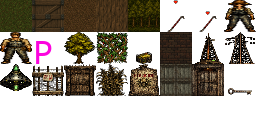
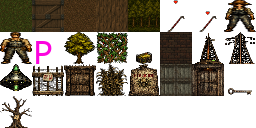
Added tree with note containing workshop door code

Changed region(s): [[0.0, 0.75, 0.125, 1.0]]

diff --git a/src/game/tree_note.h b/src/game/tree_note.h
@@ -1,0 +1,31 @@
+#pragma once
+
+#include "actionable.h"
+#include "entity_ids.h"
+#include "game_state.h"
+
+struct tree_note_t : public actionable_t
+{
+	tree_note_t(game_state_t *game, vec2_t pos)
+			: actionable_t{TREE_NOTE_NAME, pos, TREE_NOTE_ID}, game{game}
+	{
+		halved = true;
+		collidable = false;
+		action_text = "Read note";
+	}
+
+	void on_action_pressed() override
+	{
+		if (game->tree_note_read)
+		{
+			dialog_lines.push_back("I have good memory; I remember the code for the workshop is 1982");
+			return;
+		}
+
+		game->tree_note_read = true;
+		dialog_lines.push_back("I keep forgetting the access code the the workshop. I better write it down: 1982");
+	}
+
+private:
+	game_state_t *game;
+};

diff --git a/src/game/game_controller.h b/src/game/game_controller.h
@@ -27,6 +27,7 @@
 #include "station_door.h"
 #include "station_key.h"
 #include "vine.h"
+#include "tree_note.h"
 
 #define LOOP_FRAMES 300
 #define TARGET_FPS 10
@@ -283,6 +284,9 @@ private:
 					break;
 				case VINE_ID:
 					new vine_t(game, pos);
+					break;
+				case TREE_NOTE_ID:
+					new tree_note_t(game, pos);
 					break;
 				default:
 					if (id != 0)

diff --git a/src/game/entity_ids.h b/src/game/entity_ids.h
@@ -12,6 +12,7 @@
 #define PLANT_ID 20
 #define HERBICIDE_ID 21
 #define KEY_ID 24
+#define TREE_NOTE_ID 25
 
 #define BARN_DOOR_NAME "barn_door"
 #define CROWBAR_NAME "crowbar"
@@ -25,3 +26,4 @@
 #define PLANT_NAME "plant"
 #define HERBICIDE_NAME "herbicide"
 #define KEY_NAME "key"
+#define TREE_NOTE_NAME "tree_note"

diff --git a/src/game/game_state.h b/src/game/game_state.h
@@ -16,6 +16,7 @@ struct game_state_t
 	bool vines_cleared = false;
 	bool station_key_held = false;
 	bool station_door_opened = false;
+	bool tree_note_read = false;
 
 	clock_t loop_start_clock = 0;
 	int num_loop = 1;
